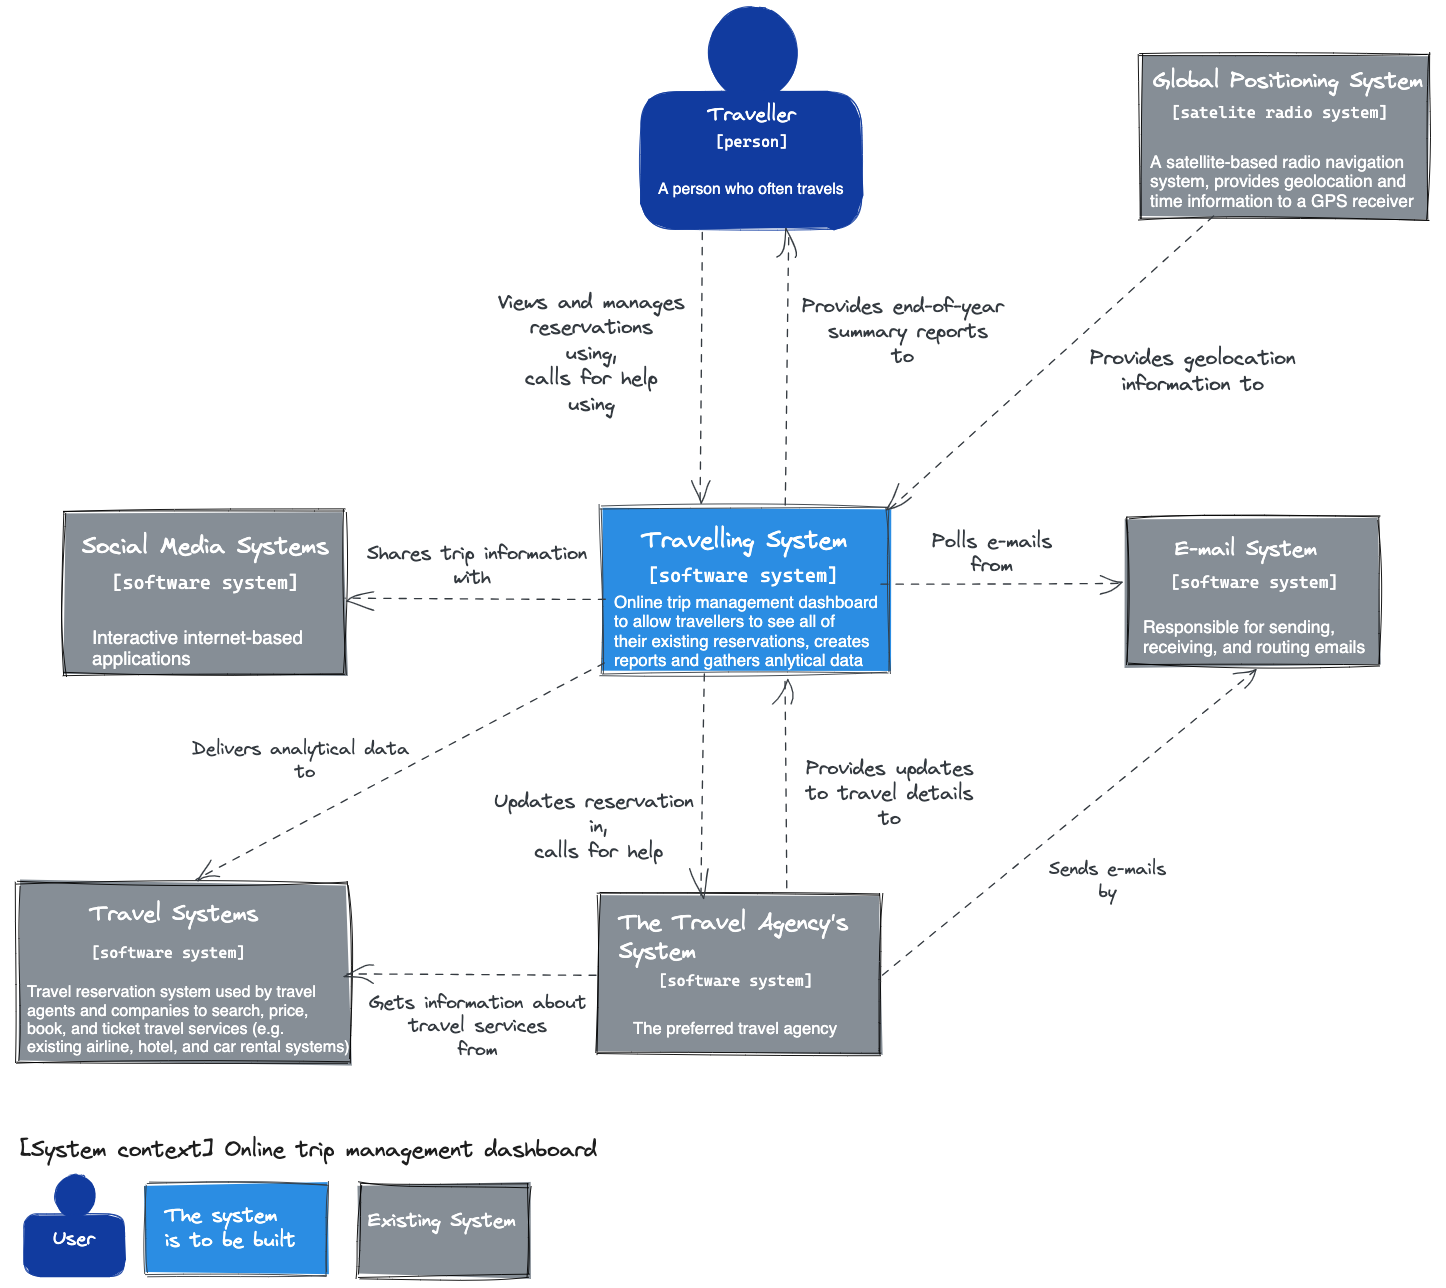
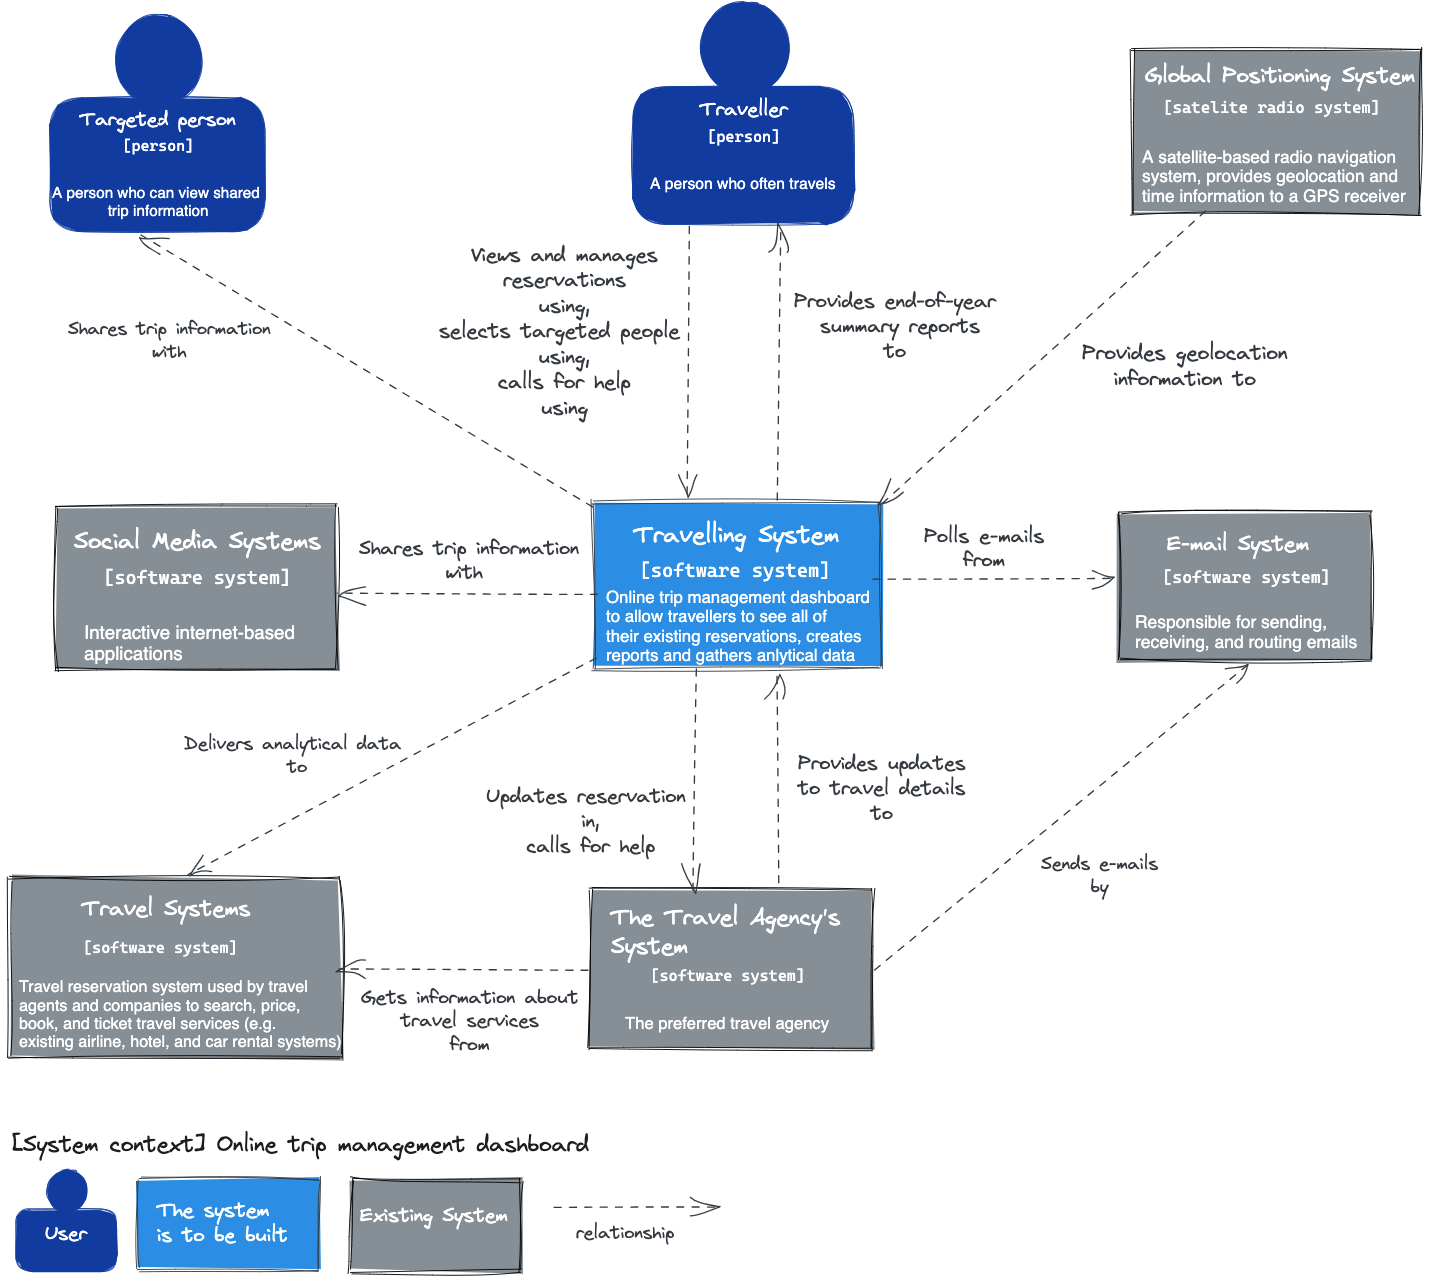
update context architecture

diff --git a/current/user_stories/trip_information_sharing/view_trip_information.md b/current/user_stories/trip_information_sharing/view_trip_information.md
@@ -1,0 +1,33 @@
+[
+The user story should have a reason to exist: what do I need as the user described in the summary?
+This part details any detail that could not be passed by the summary.
+]
+
+
+### Acceptance Criteria
+
+1. [If I do A.]
+1. [B should happen.]
+
+[
+Also, here are a few points that need to be addressed:
+
+1. Constraint 1;
+1. Constraint 2;
+1. Constraint 3.
+]
+
+
+### Resources:
+
+* Mockups: [Here goes a URL to or the name of the mockup(s) in inVision];
+* Testing URL: [Here goes a URL to the testing branch or IP];
+* Staging URL: [Here goes a URL to the feature on staging];
+
+
+### Notes
+
+[Some complementary notes if necessary:]
+
+* > Here goes a quote from an email
+* Here goes whatever useful information can exist…

diff --git a/current/architecture/README.md b/current/architecture/README.md
@@ -1,3 +1,5 @@
 
 
+## System context
+
 ![System context](https://github.com/ExtravaganzaTeam/KATAS-2023/blob/main/current/architecture/system_context.png "a title")
